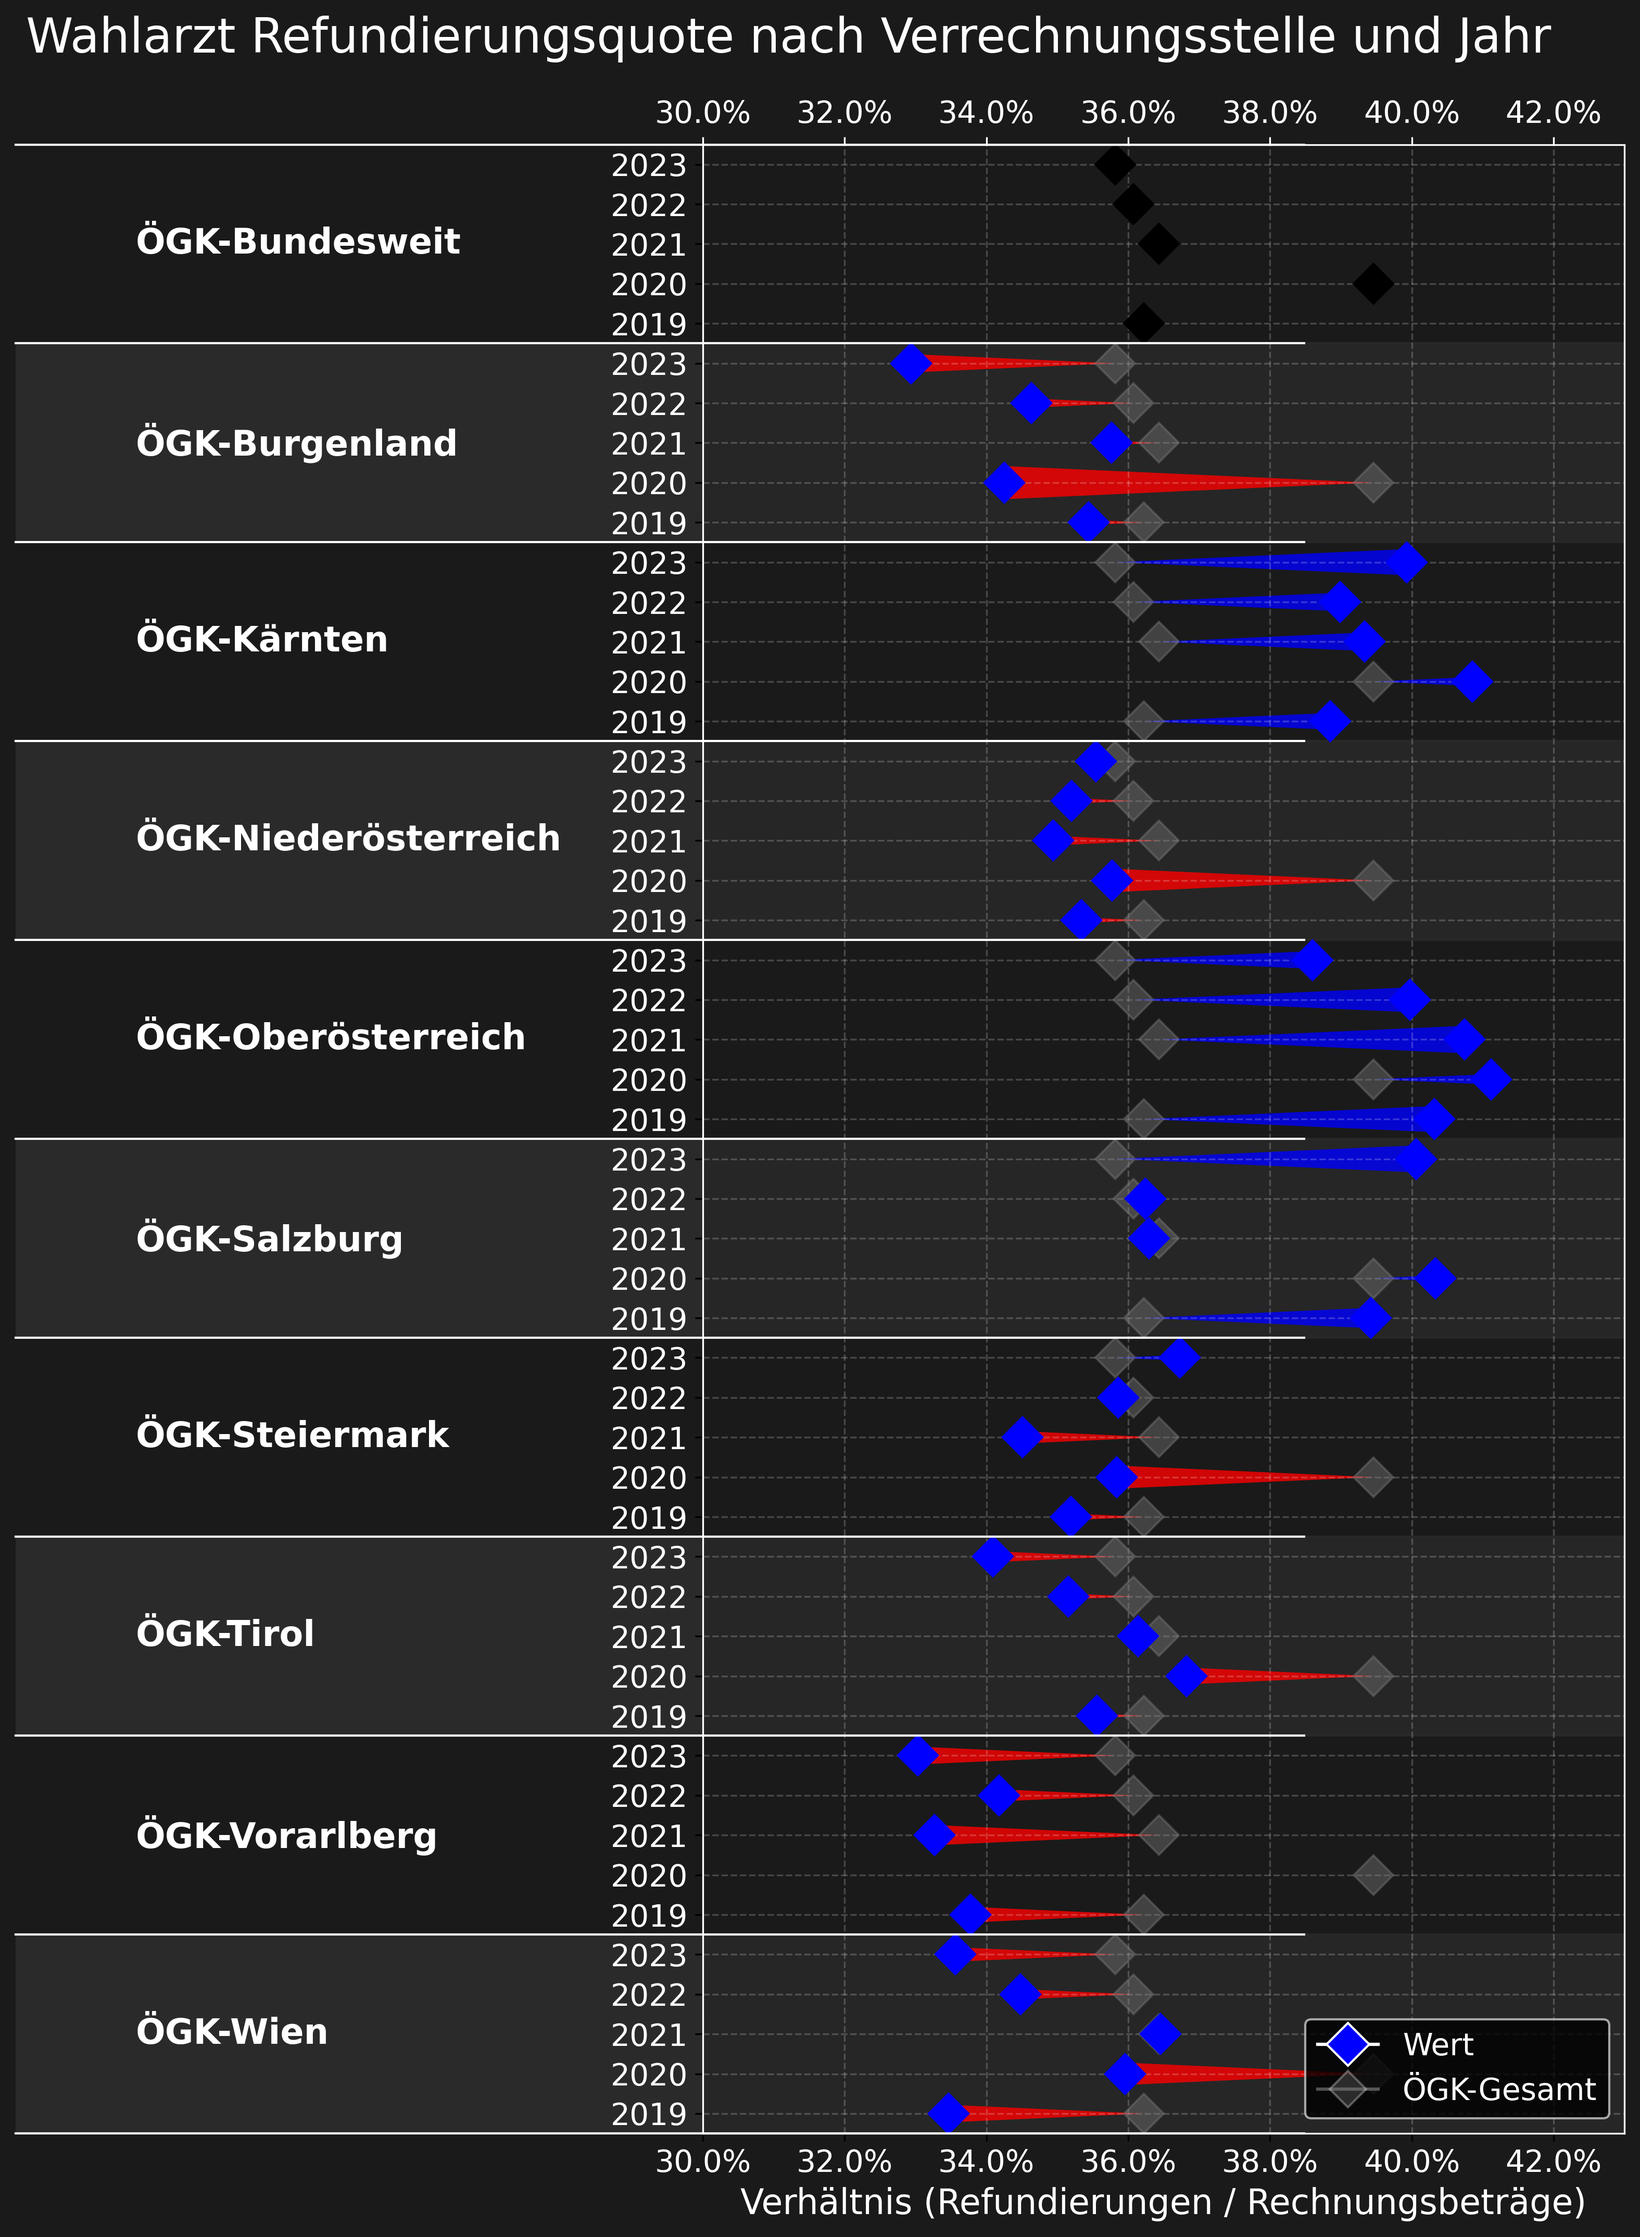
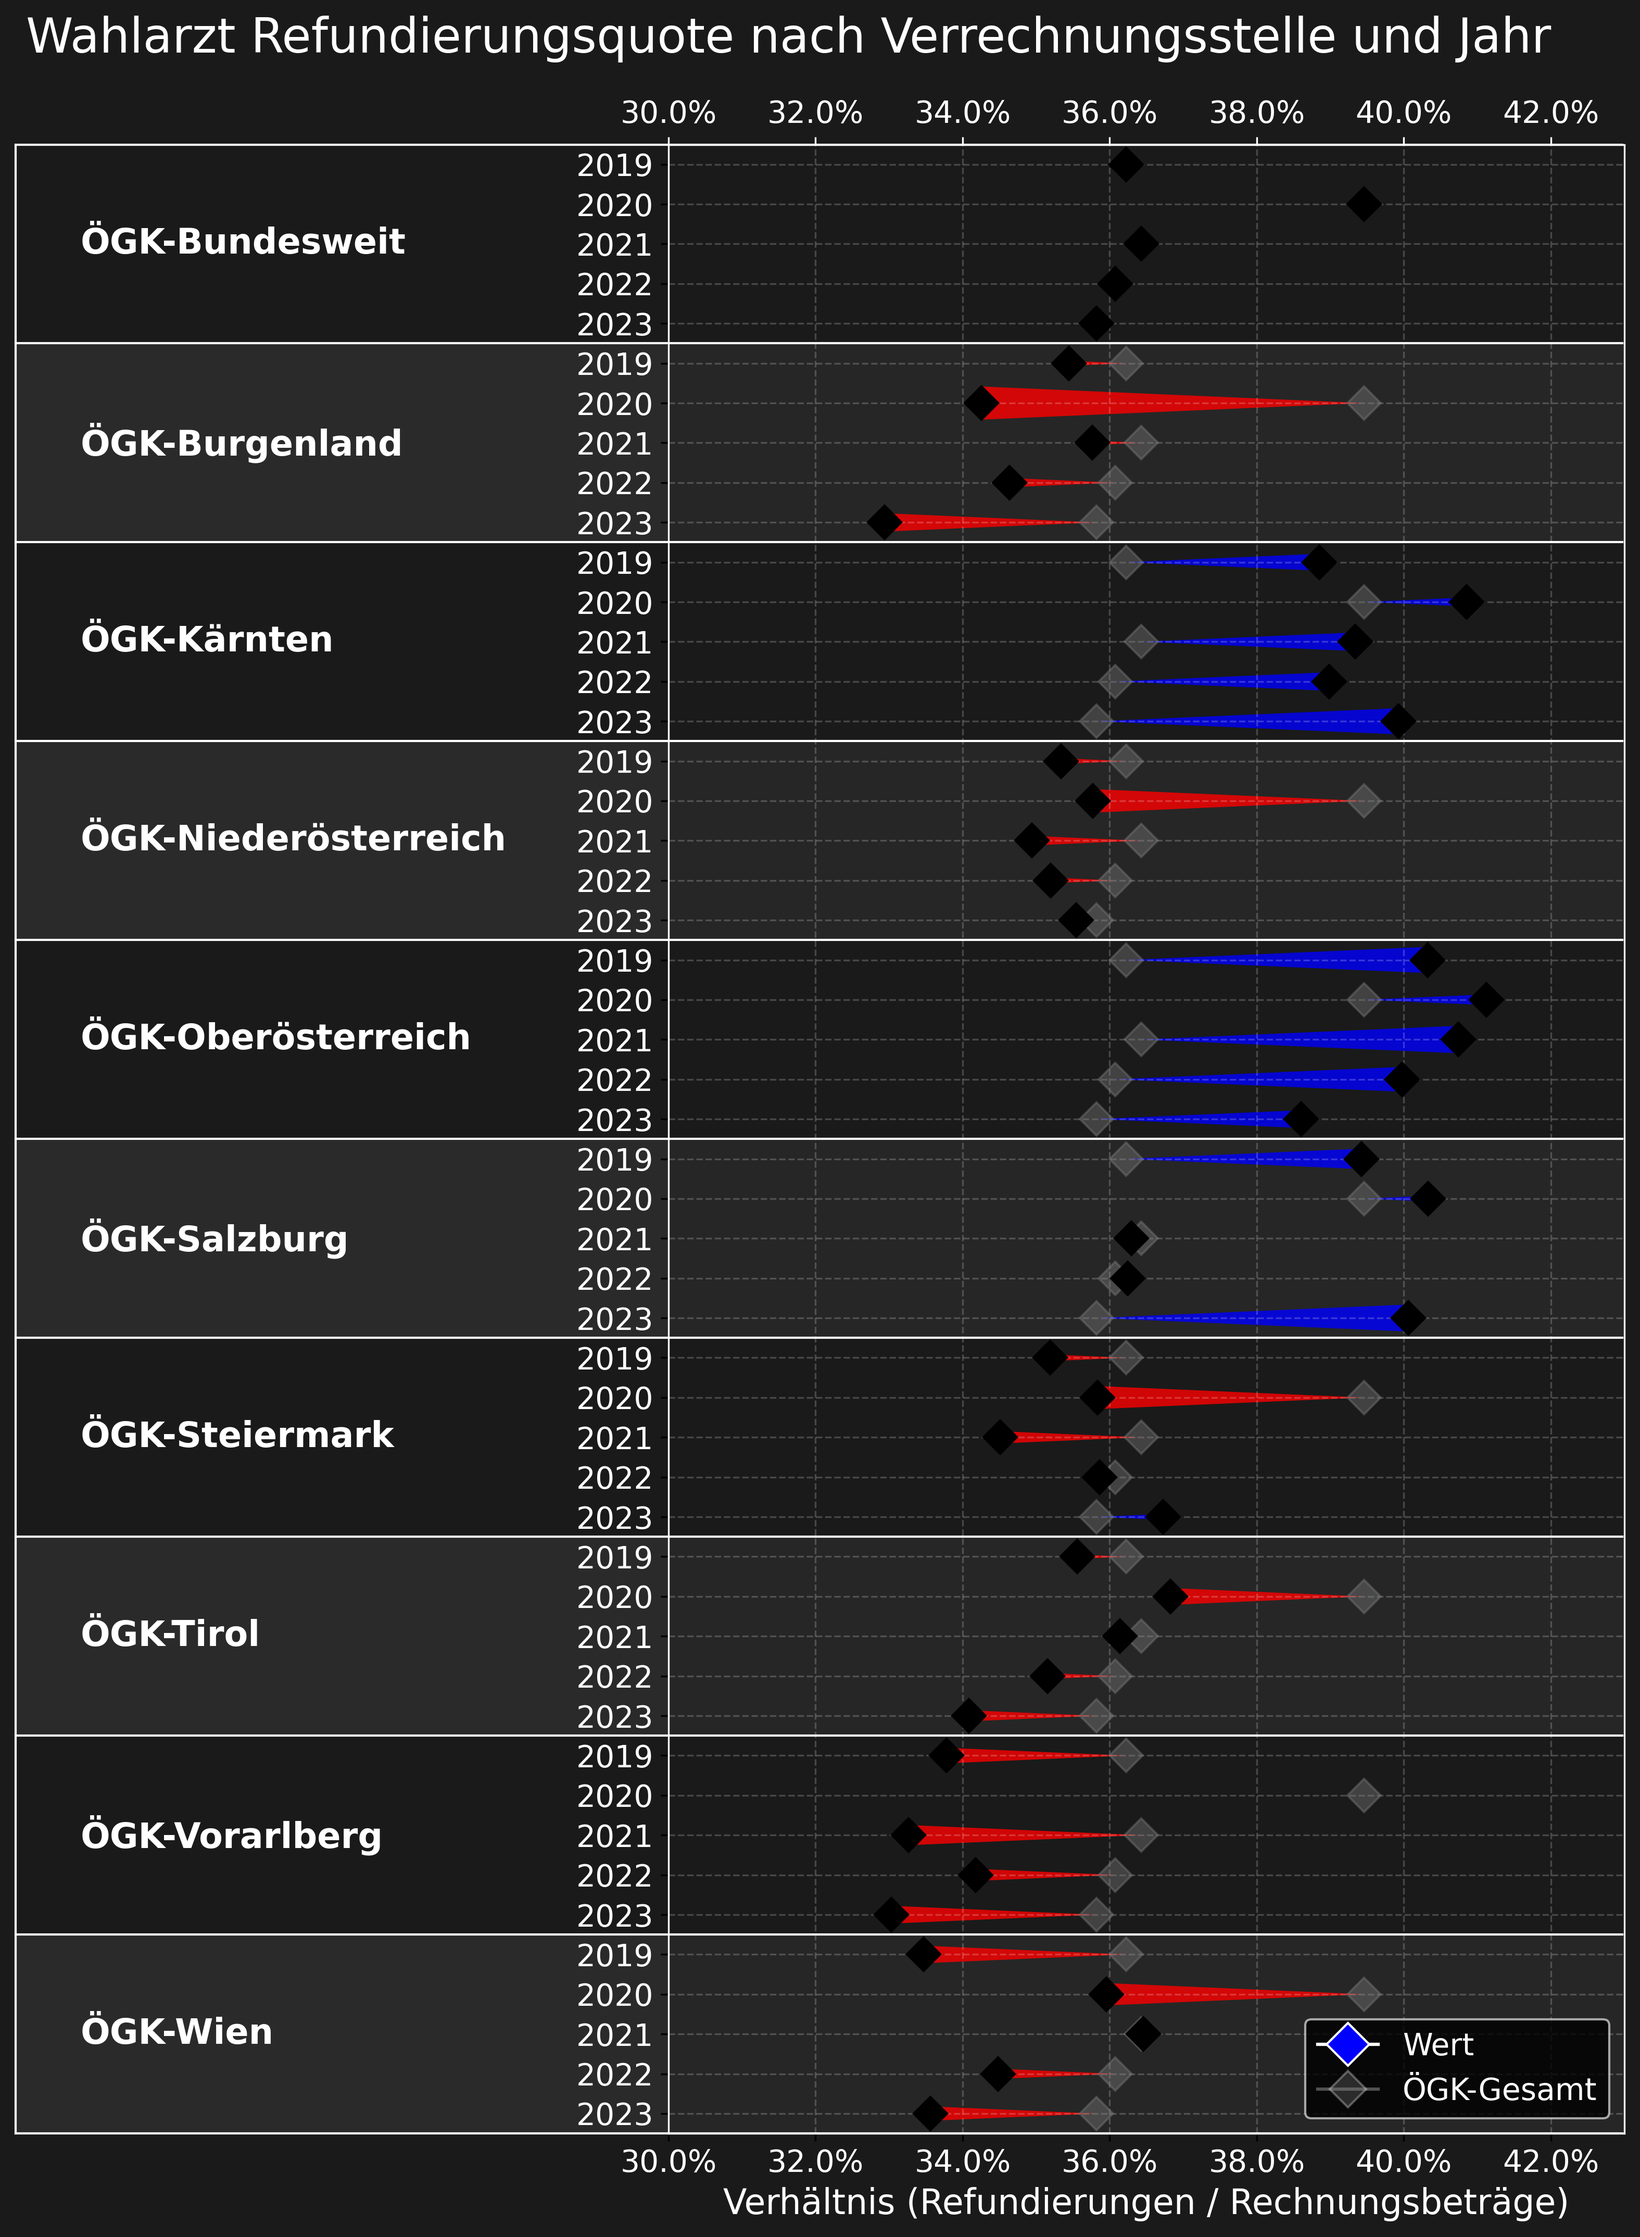
improved the ratio point plots again

diff --git a/visualize/plot_bvaeb_betraege_ratio_points.py b/visualize/plot_bvaeb_betraege_ratio_points.py
@@ -50,7 +50,7 @@ def create_plot(input_file, dark_mode=True, is_updated=False):
         ax.set_facecolor("white")
 
     # Prepare data organization
-    years = sorted(df["Year"].unique(), reverse=True)
+    years = sorted(df["Year"].unique())
     states = sorted(df["Bundesland"].unique())
 
     # Put "Gesamt" (nationwide) at the beginning of the list
@@ -101,7 +101,7 @@ def create_plot(input_file, dark_mode=True, is_updated=False):
                 gesamt_year_data = gesamt_data[gesamt_data["Year"] == year]
                 if not gesamt_year_data.empty:
                     gesamt_ratio = gesamt_year_data["Ratio"].iloc[0]
-                
+
                 # For non-nationwide states, draw comparison to nationwide value
                 if state != gesamt:
                     # Plot reference point (nationwide value)
@@ -111,7 +111,7 @@ def create_plot(input_file, dark_mode=True, is_updated=False):
                         "D",
                         color="gray",
                         alpha=0.4,
-                        markersize=13,
+                        markersize=11,
                         zorder=2,
                     )
 
@@ -142,12 +142,8 @@ def create_plot(input_file, dark_mode=True, is_updated=False):
                     ax.add_patch(polygon)
 
                 # Plot the state's data point
-                point_color = (
-                    "blue"
-                    if ratio > gesamt_ratio
-                    else "blue" if not gesamt_ratio == ratio else "black"
-                )
-                ax.plot(ratio, y_pos, "D", color=point_color, markersize=13, zorder=2)
+                point_color = "black"
+                ax.plot(ratio, y_pos, "D", color=point_color, markersize=11, zorder=2)
 
     # Style and formatting
     text_color = "white" if dark_mode else "black"
@@ -174,7 +170,7 @@ def create_plot(input_file, dark_mode=True, is_updated=False):
     x_ticks = np.arange(0.40, 0.80, 0.05)
     ax.set_xticks(x_ticks)
     ax.set_xticklabels([f"{x:.1%}" for x in x_ticks], color=text_color, fontsize=14)
-    
+
     # Add duplicate x-axis at the top for better readability
     ax2 = ax.twiny()
     ax2.set_xlim(ax.get_xlim())
@@ -234,7 +230,7 @@ def create_plot(input_file, dark_mode=True, is_updated=False):
         OUTPUT_DIR,
         f"bvaeb_betraege_ratio_points_{'dark' if dark_mode else 'light'}.png",
     )
-    
+
     # Configure save parameters
     save_kwargs = {"dpi": 300, "bbox_inches": "tight"}
     if dark_mode:
@@ -281,7 +277,7 @@ def create_plot(input_file, dark_mode=True, is_updated=False):
             * ax.get_position().height
         )
         line = plt.Line2D(
-            [0.05, 0.8],
+            [0.05, 0.985],
             [fig_y, fig_y],
             transform=fig.transFigure,
             color=text_color,
@@ -290,6 +286,28 @@ def create_plot(input_file, dark_mode=True, is_updated=False):
             zorder=100,
         )
         fig.lines.append(line)
+
+    # Add vertical line connecting left ends of top and bottom custom lines
+    top_y = (
+        ax.get_position().y0
+        + (total_positions) / total_positions * ax.get_position().height
+    )
+    bottom_y = (
+        ax.get_position().y0
+        + (total_positions - (total_entities * len(years)))
+        / total_positions
+        * ax.get_position().height
+    )
+    vertical_line = plt.Line2D(
+        [0.05, 0.05],
+        [top_y, bottom_y],
+        transform=fig.transFigure,
+        color=text_color,
+        alpha=1.0,
+        linewidth=1,
+        zorder=100,
+    )
+    fig.lines.append(vertical_line)
 
     plt.savefig(filename, **save_kwargs)
     plt.close()

diff --git a/visualize/plot_oegk_betraege_ratio_points.py b/visualize/plot_oegk_betraege_ratio_points.py
@@ -50,7 +50,7 @@ def create_plot(input_file, dark_mode=True, is_updated=False):
         ax.set_facecolor("white")
 
     # Get unique years and states
-    years = sorted(df["Year"].unique(), reverse=True)
+    years = sorted(df["Year"].unique())
     states = sorted(df["LST"].unique())
 
     # Move "Gesamt" to the beginning of the list
@@ -111,7 +111,7 @@ def create_plot(input_file, dark_mode=True, is_updated=False):
                         "D",
                         color="gray",
                         alpha=0.4,
-                        markersize=13,
+                        markersize=11,
                         zorder=2,
                     )
 
@@ -142,12 +142,8 @@ def create_plot(input_file, dark_mode=True, is_updated=False):
                     ax.add_patch(polygon)
 
                 # Plot state point
-                point_color = (
-                    "blue"
-                    if ratio > gesamt_ratio
-                    else "blue" if not gesamt_ratio == ratio else "black"
-                )
-                ax.plot(ratio, y_pos, "D", color=point_color, markersize=13, zorder=2)
+                point_color = "black"
+                ax.plot(ratio, y_pos, "D", color=point_color, markersize=11, zorder=2)
 
     # Style settings
     text_color = "white" if dark_mode else "black"
@@ -247,7 +243,7 @@ def create_plot(input_file, dark_mode=True, is_updated=False):
     # Adjust layout to prevent label cutoff
     plt.tight_layout()
     plt.subplots_adjust(top=0.895)  # Make room for the title
-    plt.subplots_adjust(left=0.45)  # Make room for state labels
+    plt.subplots_adjust(left=0.43)  # Make room for state labels
 
     # Add background elements for visual separation
     # Add background rectangles for odd-numbered states
@@ -285,7 +281,7 @@ def create_plot(input_file, dark_mode=True, is_updated=False):
             * ax.get_position().height
         )
         line = plt.Line2D(
-            [0.05, 0.8],
+            [0.05, 0.985],
             [fig_y, fig_y],
             transform=fig.transFigure,
             color=text_color,
@@ -294,6 +290,30 @@ def create_plot(input_file, dark_mode=True, is_updated=False):
             zorder=100,
         )
         fig.lines.append(line)
+
+    # Add vertical line connecting left ends of top and bottom custom lines
+    top_y = (
+        ax.get_position().y0
+        + (total_positions)
+        / total_positions
+        * ax.get_position().height
+    )
+    bottom_y = (
+        ax.get_position().y0
+        + (total_positions - (total_entities * len(years)))
+        / total_positions
+        * ax.get_position().height
+    )
+    vertical_line = plt.Line2D(
+        [0.05, 0.05],
+        [top_y, bottom_y],
+        transform=fig.transFigure,
+        color=text_color,
+        alpha=1.0,
+        linewidth=1,
+        zorder=100,
+    )
+    fig.lines.append(vertical_line)
 
     plt.savefig(filename, **save_kwargs)
     plt.close()
